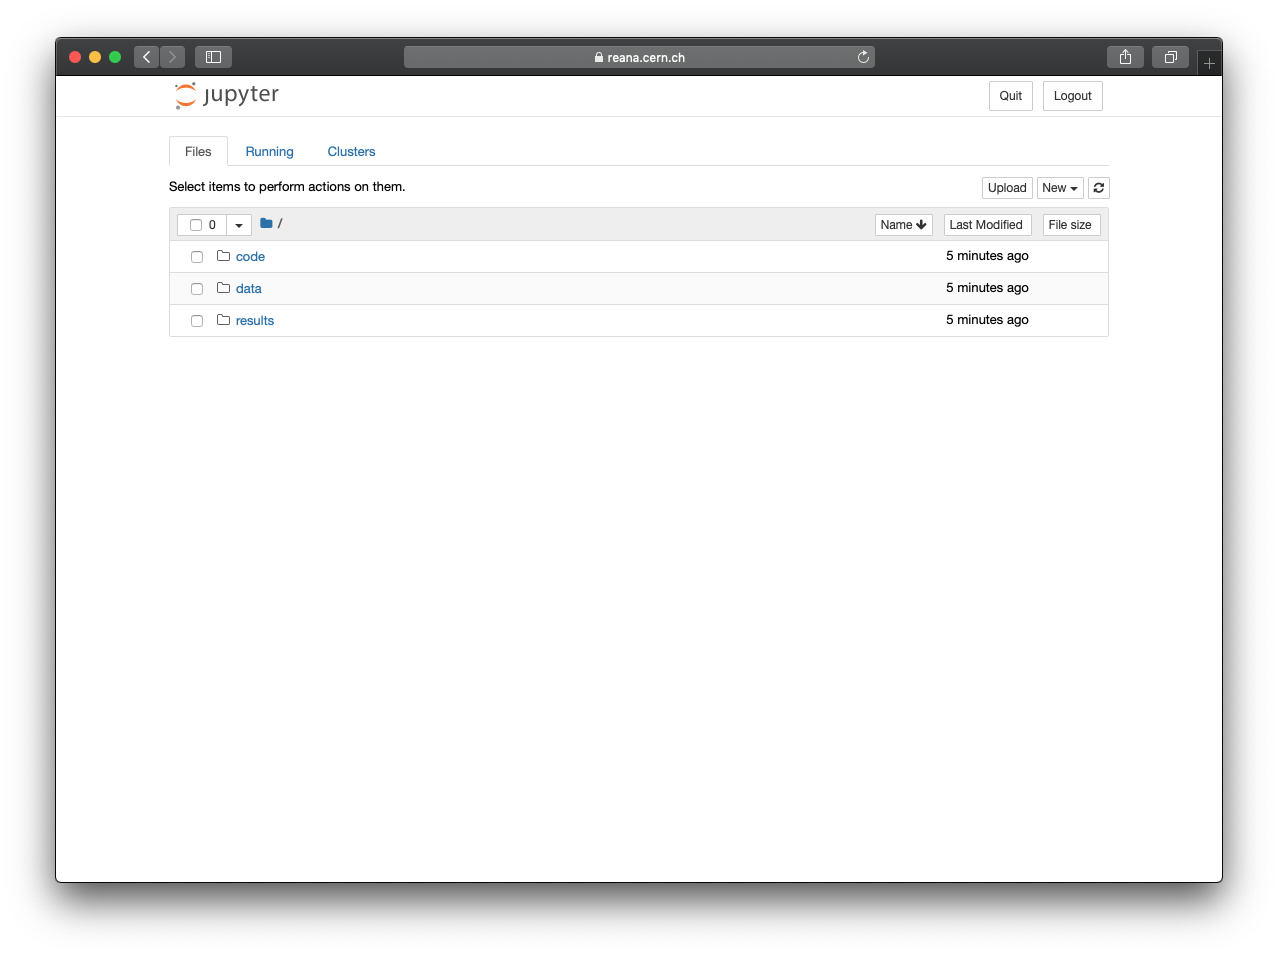
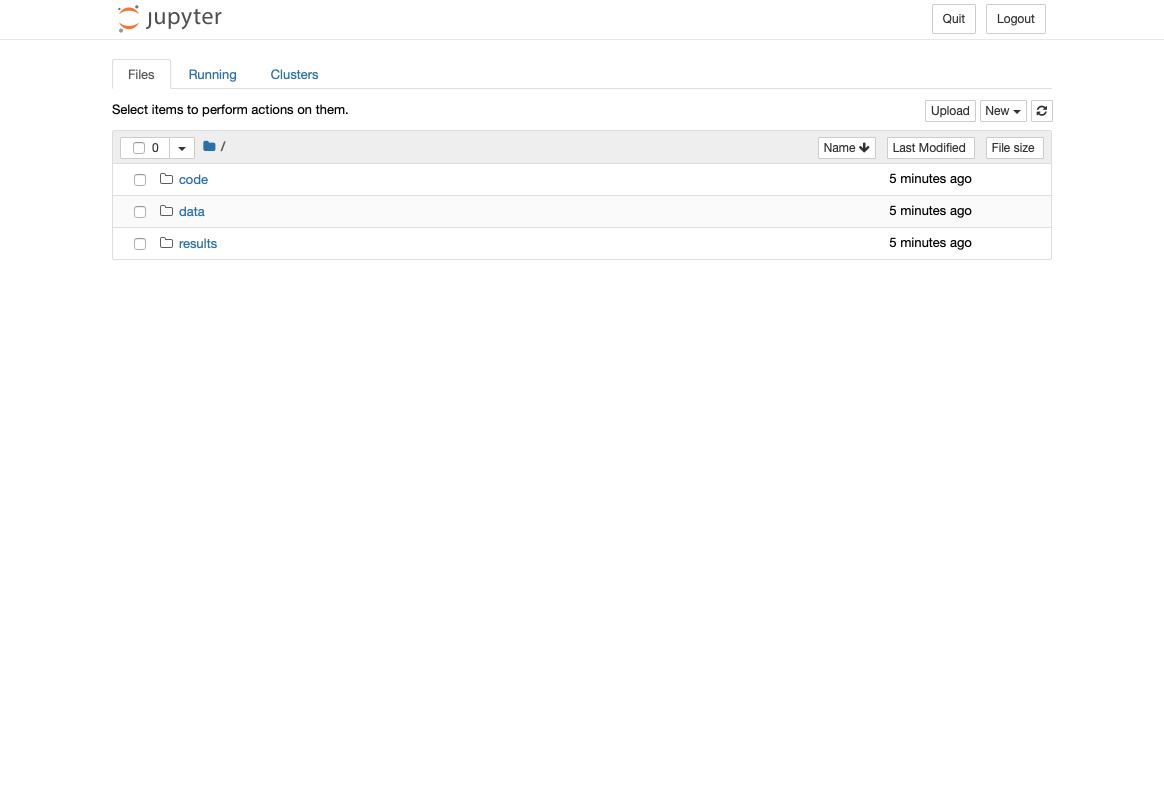
opening-sessions: custom jupyter image requirements
Closes #163

Changed region(s): [[0.0, 0.0, 0.9897, 0.9675]]

diff --git a/docs/running-notebooks/opening-sessions/index.md b/docs/running-notebooks/opening-sessions/index.md
@@ -14,16 +14,14 @@ It could take several minutes to start the interactive session.
 Please note that it will be automatically closed after 7 days of inactivity.
 ```
 
-!!! warning
-    REANA administrators can configure REANA to automatically close
-    inactive interactive sessions after a given period of inactivity.
-    As shown in the previous example, when you start an interactive session,
-    you will be informed about how long your inactive sessions will be kept open before they are
-    automatically closed. You can read more about this in the [closing sessions](../closing-sessions#auto-closure-of-inactive-sessions) section.
+By clicking on the link you will have access to a Jupyter notebook interface:
+
+![jupyter-notebook](../../images/interactive-session-jupyter-notebook.png){.screenshot-browser-mockup}
 
 By default, newly opened sessions will use the
-[`jupyter/scipy-notebook:notebook-6.4.5`](https://hub.docker.com/layers/jupyter/scipy-notebook/notebook-6.4.5/images/sha256-b6a4ce777b837496d5612b7ce4efba9aa015576cb6993817721b8d293a7c2a3c?context=explore) Docker image to spawn your notebook. You can supply
-your desired image by passing it to the previous command with the
+[`jupyter/scipy-notebook:notebook-6.4.5`](https://hub.docker.com/layers/jupyter/scipy-notebook/notebook-6.4.5/images/sha256-b6a4ce777b837496d5612b7ce4efba9aa015576cb6993817721b8d293a7c2a3c?context=explore)
+Docker image to spawn your notebook.
+If you would like to use a different image, you can pass it to the previous command with the
 `-i/--image` option:
 
 ```console
@@ -31,24 +29,29 @@ $ reana-client open -w jupyter --image jupyter/scipy-notebook:notebook-6.4.7
 ==> SUCCESS: Interactive session opened successfully
 https://reana.cern.ch/f8be55e4-5d18-43f9-b977-f773fdcab163?token=<your-reana-token>
 It could take several minutes to start the interactive session.
+Please note that it will be automatically closed after 7 days of inactivity.
 ```
 
-By clicking on the link you will have access to a Jupyter notebook interface:
+If you want to use a custom image, please note that it has to be based on one of the
+[official Jupyter images](https://jupyter-docker-stacks.readthedocs.io/en/latest/using/selecting.html#jupyter-base-notebook)
+(in this way, it will have Jupyter running on the port `8888` and the
+[`start-notebook.sh`](https://github.com/jupyter/docker-stacks/blob/main/base-notebook/start-notebook.sh) script available).
 
-![jupyter-notebook](../../images/interactive-session-jupyter-notebook.png)
-
-!!! note
-    Keep in mind that this operation might take a minute, if you see
-    "Service unavailable", just wait and retry.
+!!! warning
+    REANA administrators can configure REANA to automatically close
+    inactive interactive sessions after a given period of inactivity.
+    As shown in the previous examples, when you start an interactive session,
+    you will be informed about how long your inactive sessions will be kept open before they are
+    automatically closed. You can read more about this in the [closing sessions](../closing-sessions#auto-closure-of-inactive-sessions) section.
 
 ### Open from web interface
 
 Alternatively, you can also open Jupyter notebook sessions from the
-REANA web interface by going through a list of your workflows and
-clicking on the vertical ellipsis menu on the right-hand-side and
+REANA web interface by going through a list of your workflows,
+clicking on the vertical ellipsis menu on the right-hand-side, and
 selecting "Open Jupyter Notebook":
 
-![ui-open-session](../../images/ui-open-session.png)
+![ui-open-session](../../images/ui-open-session.png){.screenshot-browser-mockup}
 
 When a workflow has an associated Jupyter notebook session opened, a
 Jupyter icon will appear next to the workflow name; you can then click
